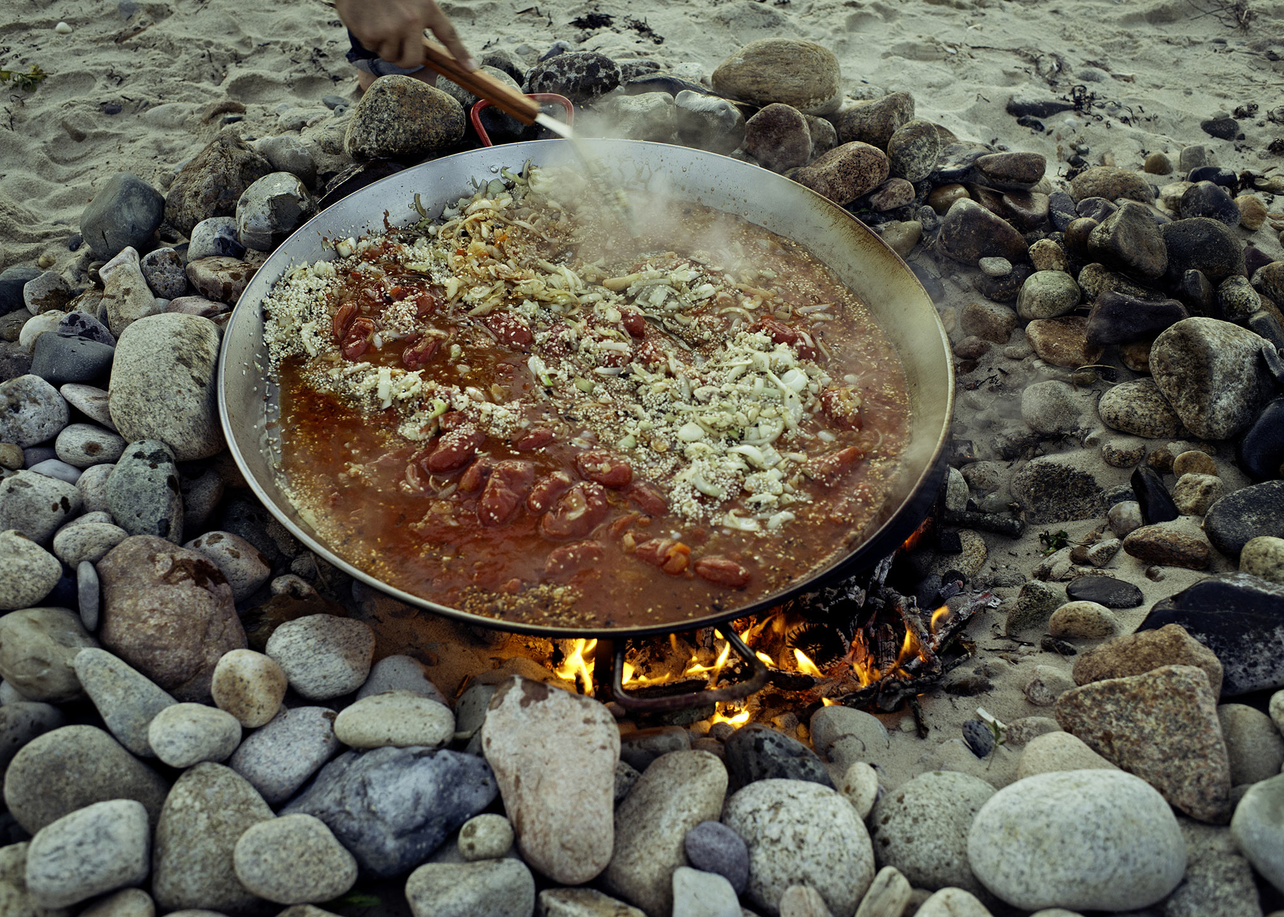
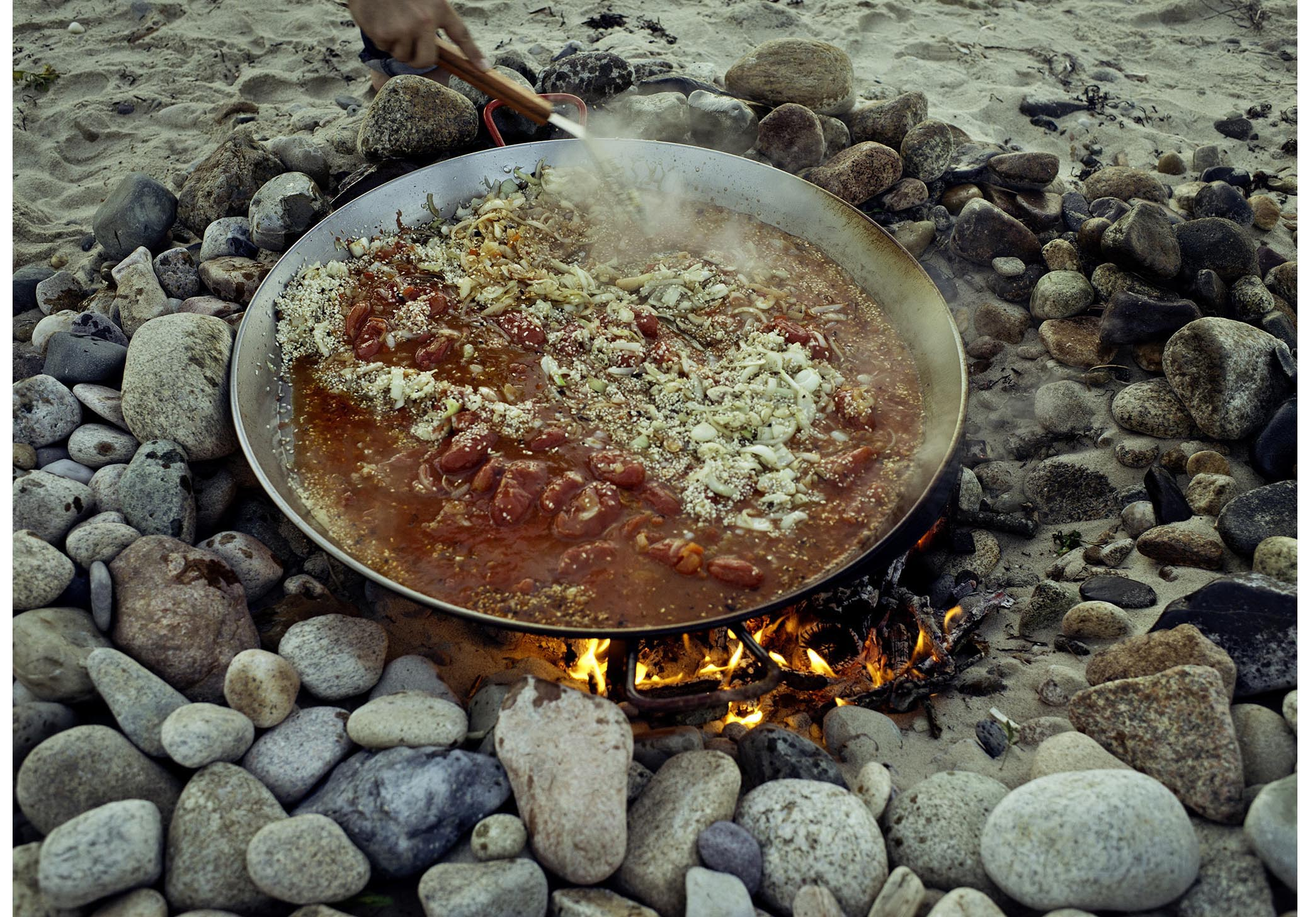
fixes and tweaks

diff --git a/place/fire2015/index.html b/place/fire2015/index.html
@@ -113,7 +113,7 @@
                   <source srcset="images/02-tiny-atlas-quarterly-fire-place-emily-nathan-L.jpg" media="(min-width: 960px)">
                   <source srcset="images/02-tiny-atlas-quarterly-fire-place-emily-nathan-M.jpg" media="(min-width: 768px)">
                   <!--[if IE 9]></video><![endif]-->
-                  <img srcset="images/03-tiny-atlas-quarterly-fire-place-emily-nathan-S.jpg" alt="Tiny Atlas Quarterly, Place">
+                  <img srcset="images/02-tiny-atlas-quarterly-fire-place-emily-nathan-S.jpg" alt="Tiny Atlas Quarterly, Place">
                 </picture>
                 <!-- IMAGE END -->
 
@@ -150,7 +150,7 @@
                          <h2>Palm Springs<br />Mid-century Oasis</h2>
                           <!-- INTRO -->
                          <h3><i>Design is all about emotional connection. I want people to be moved by the experience of being in a space I have designed.</i> — Steve Hermann</h3>
-                         <h3>An hour by air from San Francisco is PSP (the Palm Springs International Airport), a petit but high flying, white-tented welcome to an international mid-century design capital. And after a relaxed ten-minute desert ride, you arrive at <a href="http://www.lhw.com/property.aspx?pid=AF497ABE-C07A-42C9-9D76-8C11852629E6&ext=TNYALS15&utm_medium=link&utm_source=tinyals&utm_campaign=2015timyals&utm_content=tnyalshtl" target="_blank" style="background-color:#a2bde7">L’Horizon Resort and Spa</a> and enter the property’s intimate scale. As the newest member of a collection of over 400 international hotels, called <a href="http://www.lhw.com">The Leading Hotels of the World</a>, L’Horizon gives its guests the distinct feeling that they are staying someplace very rooted in place and with all the visual and material luxuries of fine art and beautiful design. </h3>
+                         <h3>An hour by air from San Francisco is PSP (the Palm Springs International Airport), a petit but high flying, white-tented welcome to an international mid-century design capital. And after a relaxed ten-minute desert ride, you arrive at <a href="http://www.lhw.com/property.aspx?pid=AF497ABE-C07A-42C9-9D76-8C11852629E6&ext=TNYALS15&utm_medium=link&utm_source=tinyals&utm_campaign=2015timyals&utm_content=tnyalshtl" target="_blank" style="background-color:#a2bde7">L’Horizon Resort and Spa</a> and enter the property’s intimate scale. As the newest member of a collection of over 400 international hotels, called <a href="http://www.lhw.com" target="_blank">The Leading Hotels of the World</a>, L’Horizon gives its guests the distinct feeling that they are staying someplace very rooted in place and with all the visual and material luxuries of fine art and beautiful design. </h3>
                          <h3>Each guest’s bungalow has a personalized etched brass doorplate. The materials are sleek and warm with hardwood, brass, and stone complimenting each other throughout. The details are a delight. Smooth turning brass cylinder knobs slowly raise the intensity of bespoke bare-bulb filaments. The San Jacinto Mountains rise above the ocotillo and saguaros just outside the indoor-outdoor showers made of floor to ceiling glass.</h3>
                          <h3>The cool pool—a flash of blue—lies leisurely amid fire pits and low stone fountains. The dark and romantic restaurant is tucked into a lush outdoor garden patio with unique lighting that makes a mini destination out of each table. Which makes dining on <a href="http://lhorizonpalmsprings.com/sopa-restaurant" target="_blank">Sopa’s</a> oysters with tiny fresh flowers and cava granita that much more extraordinary.</h3>
                          <h3>This is a space designed by someone focusing on each part of the whole as though it was their own home, curated with the passion and precision we would expect from an exceptional hotel. And that brings us to Steve&hellip;</h3>
@@ -199,8 +199,8 @@
                          <p><span class="pg-copy-em">TAQ:  Where do you stay when you’re in Palm Springs?</span></p>
                          <p>Steve:  I used to have a home out here but sold it when I opened the hotel. I wouldn't stay anywhere else but L’Horizon.</p>
                     </div><!-- end page content -->
-                    <h3><a href="http://www.lhw.com/property.aspx?pid=AF497ABE-C07A-42C9-9D76-8C11852629E6&ext=TNYALS15&utm_medium=link&utm_source=tinyals&utm_campaign=2015timyals&utm_content=tnyalshtl" target="_blank">L’Horizon</a> is a member of <a href="http://www.lhw.com">The Leading Hotels of the World</a>, a collection of uncommon luxury hotels for people who love to travel.  </h3>
-                    <h3>Pictured guest is jewelry designer Malia Mau of <a href="http://mgracejewelry.com">M Grace Jewelry</a>.</h3>
+                    <h3><a href="http://www.lhw.com/property.aspx?pid=AF497ABE-C07A-42C9-9D76-8C11852629E6&ext=TNYALS15&utm_medium=link&utm_source=tinyals&utm_campaign=2015timyals&utm_content=tnyalshtl" target="_blank" style="background-color:#a2bde7">L’Horizon</a> is a member of <a href="http://www.lhw.com" target="_blank">The Leading Hotels of the World</a>, a collection of uncommon luxury hotels for people who love to travel.  </h3>
+                    <h3>Pictured guest is jewelry designer Malia Mau of <a href="http://mgracejewelry.com" target="_blank">M Grace Jewelry</a>.</h3>
                  </div> <!-- end box div -->
                </div><!-- end wrapper div -->
             </div>
@@ -427,7 +427,7 @@
                   <div class="pg-box-nav"><a href="../../index.html"><img src="../../images/tiny-atlas-sm.jpg" alt="Tiny Atlas Quarterly"></a></div>
                   <div class="pg-box-content">
                           Glamis Sand Dunes, California<br />
-                          <a href="www.christianbrecheis.com" target="_blank">Christian Brecheis</a>
+                          <a href="http://www.christianbrecheis.com" target="_blank">Christian Brecheis</a>
                   </div>
                 </div> <!-- end box div -->
                </div><!-- end wrapper div -->
@@ -512,7 +512,7 @@
 
                          <!-- Q -->
                          <p><span class="pg-copy-em">TAQ:  What makes the Miracle Mile and Fairfax area special to you compared to other parts of L.A.?</span></p>
-                         <p>David:  Probably the fact that no one seems to know about it. It is near the <a href="http://www.thegrovela.com/dine.php">Grove</a> and <a href="http://www.farmersmarketla.com">the Farmer’s Market</a> and <a href="http://www.lacma.org">LACMA</a>, but other than these famous landmarks, the cultural life somehow remains pretty secret. It’s also so central: If you need to get to the beach or the valley, you’re never too far. </p>
+                         <p>David:  Probably the fact that no one seems to know about it. It is near the <a href="http://www.thegrovela.com/dine.php">Grove</a> and <a href="http://www.farmersmarketla.com" target="_blank">the Farmer’s Market</a> and <a href="http://www.lacma.org" target="_blank">LACMA</a>, but other than these famous landmarks, the cultural life somehow remains pretty secret. It’s also so central: If you need to get to the beach or the valley, you’re never too far. </p>
 
                          <!-- Q -->
                          <p><span class="pg-copy-em">TAQ:  What are your favorite things to do here?</span></p>
@@ -521,7 +521,7 @@
 
                          <!-- Q -->
                          <p><span class="pg-copy-em">TAQ:  You said the yep [young entertainment professionals] crowd was settling in the neighborhood. Do you think it has something to do with the proximity to Hollywood? Or did the entertainment scene spread to your district?</span></p>
-                         <p>David:  I think it’s been a long time since Hollywood was the center of the entertainment life in L.A. There is a tendency to think of theater as only being a big Broadway musical. But in the thirteen years I’ve been producing Mortified, I’ve come to see that L.A. has more small events and stage shows than people give it credit for. <a href="http://getmortified.com/live/">Mortified</a> is one of the longest running stage shows currently in Los Angeles and it’s only because the community and the city supports it. </p>
+                         <p>David:  I think it’s been a long time since Hollywood was the center of the entertainment life in L.A. There is a tendency to think of theater as only being a big Broadway musical. But in the thirteen years I’ve been producing Mortified, I’ve come to see that L.A. has more small events and stage shows than people give it credit for. <a href="http://getmortified.com/live/" target="_blank">Mortified</a> is one of the longest running stage shows currently in Los Angeles and it’s only because the community and the city supports it. </p>
                     </div><!-- end page content -->
                  </div> <!-- end box div -->
                </div><!-- end wrapper div -->
@@ -732,7 +732,7 @@
 
                          <p>And he’s right. It strikes me every time I drive east on Route 27 . . . the tended lawns and giant elms of East Hampton give way to windswept dunes of Napeague, and then the ragged, bare cliffs of Montauk. Amenities aside, Montauk, with it’s exposure to salt and wind, will always be raw. </span></p>
 
-                         <p>As year-round resident of the last town on Long Island, about a hundred miles out on the Atlantic Ocean, and creative director for <a href="http://thembh.com">The Montauk Beach House</a> (MBH), Walt Lindveld translates and refines Montauk. Walk past the breezy MBH front desk and you feel It immediately . . . when you see the little kids in the pool alongside smiling staff in high-cut denims. It is chic without pretense. There’s sun, shade, sleek lines, and plenty of soft places to land. You can see immediately what you’re getting into and you want to stay a while. And that’s what Walt Lindveld does well. He creates environments that make you want to stay. </p>
+                         <p>As year-round resident of the last town on Long Island, about a hundred miles out on the Atlantic Ocean, and creative director for <a href="http://thembh.com" target="_blank">The Montauk Beach House</a> (MBH), Walt Lindveld translates and refines Montauk. Walk past the breezy MBH front desk and you feel It immediately . . . when you see the little kids in the pool alongside smiling staff in high-cut denims. It is chic without pretense. There’s sun, shade, sleek lines, and plenty of soft places to land. You can see immediately what you’re getting into and you want to stay a while. And that’s what Walt Lindveld does well. He creates environments that make you want to stay. </p>
 
                          <p>At a Monday lunch on a cool, shady couch near the pool the vibe is relaxed and lovely, low music and seagulls overhead.</p>
 

diff --git a/portraits/fire2015/index.html b/portraits/fire2015/index.html
@@ -89,7 +89,7 @@
             <div class="pg-box-content">
                     Tess<br />
                     Chatham County, Georgia<br />
-                    <a href="http://www.gabrielaherman.com" target="_blank">Katherine Wolkoff</a>
+                    <a href="http://katherinewolkoff.com" target="_blank">Katherine Wolkoff</a>
             </div>
           </div> <!-- end box div -->
          </div><!-- end wrapper div -->
@@ -115,7 +115,7 @@
             <div class="pg-box-content">
                     Abraham<br />
                     Monrovia, Liberia<br />
-                    <a href="www.matthewreamer.com" target="_blank">Matthew Reamer</a>
+                    <a href="http://www.matthewreamer.com" target="_blank">Matthew Reamer</a>
             </div>
           </div> <!-- end box div -->
          </div><!-- end wrapper div -->
@@ -141,7 +141,7 @@
             <div class="pg-box-content">
                     Girl<br />
                     Asbury Park, New Jersey<br />
-                    <a href="www.ryanstruck.com" target="_blank">Ryan Struck</a>
+                    <a href="http://www.ryanstruck.com" target="_blank">Ryan Struck</a>
             </div>
           </div> <!-- end box div -->
          </div><!-- end wrapper div -->
@@ -167,7 +167,7 @@
             <div class="pg-box-content">
                     Grant<br />
                     Michigan<br />
-                    <a href="www.terriloewenthal.com " target="_blank">Terri Loewenthal</a>
+                    <a href="http://www.terriloewenthal.com " target="_blank">Terri Loewenthal</a>
             </div>
           </div> <!-- end box div -->
          </div><!-- end wrapper div -->
@@ -193,7 +193,7 @@
             <div class="pg-box-content">
                     Miatta and Agnes<br />
                     Monrovia, Liberia<br />
-                    <a href="www.matthewreamer.com" target="_blank">Matthew Reamer</a>
+                    <a href="http://www.matthewreamer.com" target="_blank">Matthew Reamer</a>
             </div>
           </div> <!-- end box div -->
          </div><!-- end wrapper div -->
@@ -219,7 +219,7 @@
             <div class="pg-box-content">
                     Vera<br />
                     Perm, Russia<br />
-                    <a href="www.rorydoylephoto.com" target="_blank">Rory Doyle</a>
+                    <a href="http://www.rorydoylephoto.com" target="_blank">Rory Doyle</a>
             </div>
           </div> <!-- end box div -->
          </div><!-- end wrapper div -->
@@ -245,7 +245,7 @@
             <div class="pg-box-content">
                     Unknown<br />
                     Tokyo, Japan<br />
-                    <a href="www.sawakofujii.com" target="_blank">Chikage &amp; Sowako</a>
+                    <a href="http://www.sawakofujii.com" target="_blank">Chikage &amp; Sowako</a>
             </div>
           </div> <!-- end box div -->
          </div><!-- end wrapper div -->
@@ -271,7 +271,7 @@
             <div class="pg-box-content">
                     Woman<br />
                     Playa Colorados, Nicaragua<br />
-                    <a href="www.nickiecutrona.com" target="_blank">Nickie Cutrona</a>
+                    <a href="http://www.nickiecutrona.com" target="_blank">Nickie Cutrona</a>
             </div>
           </div> <!-- end box div -->
          </div><!-- end wrapper div -->
@@ -297,7 +297,7 @@
             <div class="pg-box-content">
                     Josh Stone<br />
                     Cooper Island, BVI's<br />
-                    <a href="www.nickiecutrona.com" target="_blank">Nickie Cutrona</a>
+                    <a href="http://www.nickiecutrona.com" target="_blank">Nickie Cutrona</a>
             </div>
           </div> <!-- end box div -->
          </div><!-- end wrapper div -->
@@ -323,7 +323,7 @@
             <div class="pg-box-content">
                     Liesl<br />
                     Pacific Palisades, California<br />
-                    <a href="www.brendanpattengale.com" target="_blank">Brendan Pattengale</a>
+                    <a href="http://www.brendanpattengale.com" target="_blank">Brendan Pattengale</a>
             </div>
           </div> <!-- end box div -->
          </div><!-- end wrapper div -->
@@ -349,7 +349,7 @@
             <div class="pg-box-content">
                     Unknown<br />
                     Austin, Texas<br />
-                    <a href="www.matthewjohnsonphoto.com" target="_blank">Matthew Johnson</a>
+                    <a href="http://www.matthewjohnsonphoto.com" target="_blank">Matthew Johnson</a>
             </div>
           </div> <!-- end box div -->
          </div><!-- end wrapper div -->
@@ -375,7 +375,7 @@
             <div class="pg-box-content">
                     Christopher Meyerhoff<br />
                     Leverett, Massachusetts<br />
-                    <a href="www.jessicasample.com" target="_blank">Jessica Sample</a>
+                    <a href="http://www.jessicasample.com" target="_blank">Jessica Sample</a>
             </div>
           </div> <!-- end box div -->
          </div><!-- end wrapper div -->
@@ -401,7 +401,7 @@
             <div class="pg-box-content">
                     Unknown<br />
                     Beacon, New York<br />
-                    <a href="www.meredithheuer.com" target="_blank">Meredith Heuer</a>
+                    <a href="http://www.meredithheuer.com" target="_blank">Meredith Heuer</a>
             </div>
           </div> <!-- end box div -->
          </div><!-- end wrapper div -->
@@ -427,7 +427,7 @@
             <div class="pg-box-content">
                     Lindy Booth<br />
                     London, UK<br />
-                    <a href="www.vanessaberberian.com" target="_blank">Vanessa Berberian</a>
+                    <a href="http://www.vanessaberberian.com" target="_blank">Vanessa Berberian</a>
             </div>
           </div> <!-- end box div -->
          </div><!-- end wrapper div -->
@@ -455,7 +455,7 @@
                     <!-- INTRO -->
                    <h3>photo Lou Mora <br />
                    interview by Andi Teggart from STAND </h3>
-                   <h3>Last month, Tiny Atlas Quarterly launched its first awareness campaign for the nonprofit organization <a href="http://www.thextramile.org">The Extra Mile</a> (TEM). We felt TAQ’S community of travelers would be the perfect match to support an organization that collects frequent flyer miles for people who need to travel to be with terminally ill loved ones. We linked up with TEM on <a href="https://itunes.apple.com/us/app/apple-store/id960059100?mt=8" target="_blank">STAND</a>, an app that simplifies the process of connecting with inspiring people who put compassion into action.</h3>
+                   <h3>Last month, Tiny Atlas Quarterly launched its first awareness campaign for the nonprofit organization <a href="http://www.thextramile.org" target="_blank">The Extra Mile</a> (TEM). We felt TAQ’S community of travelers would be the perfect match to support an organization that collects frequent flyer miles for people who need to travel to be with terminally ill loved ones. We linked up with TEM on <a href="https://itunes.apple.com/us/app/apple-store/id960059100?mt=8" target="_blank">STAND</a>, an app that simplifies the process of connecting with inspiring people who put compassion into action.</h3>
                    <h3>Matt Dimmer created The Extra Mile after his dad passed away. We know Matt through Lou Mora, our long-time collaborator, who we asked to photograph Matt for this story. Andi Teggart from STAND, the app that brought TAQ and TEM together, interviews Matt about the organization’s values and the challenges involved in starting a nonprofit company. </h3>
                    <!-- page content -->
                    <div id="pg-interview-content">
@@ -545,7 +545,7 @@
             <div class="pg-box-content">
                     Delilah Parillo<br />
                     Little Big Sur, California<br />
-                    <a href="www.brandonharman.com" target="_blank">Brandon Harman</a>
+                    <a href="http://www.brandonharman.com" target="_blank">Brandon Harman</a>
             </div>
           </div> <!-- end box div -->
          </div><!-- end wrapper div -->
@@ -571,7 +571,7 @@
             <div class="pg-box-content">
                     Lily and Arthur<br />
                     Shropshire, England<br />
-                    <a href="www.tinahillier.com" target="_blank">Tina Hillier</a>
+                    <a href="http://www.tinahillier.com" target="_blank">Tina Hillier</a>
             </div>
           </div> <!-- end box div -->
          </div><!-- end wrapper div -->
@@ -597,7 +597,7 @@
             <div class="pg-box-content">
                     India Reinartz and Rebekah Hulseman<br />
                     Playa Gigante, Nicaragua<br />
-                    <a href="www.nickiecutrona.com" target="_blank">Nickie Cutrona</a>
+                    <a href="http://www.nickiecutrona.com" target="_blank">Nickie Cutrona</a>
             </div>
           </div> <!-- end box div -->
          </div><!-- end wrapper div -->

diff --git a/beauty/oahu/index.html b/beauty/oahu/index.html
@@ -310,7 +310,7 @@
                     <span class="pg-contributor">Eat & Drink</span>
                     <br /><a href="http://www.thelocalhawaii.com" target="_blank">The Local Hawaii</a>
                     <br /><a href="http://www.townkaimuki.com/menu/" target="_blank">Town Kaimuki</a>
-                    <br /><a href="https://m.facebook.com/pages/Okata-Bento/111741405531454" target="_blank">Okata Bento</a>
+                    <br /><a href="https://facebook.com/pages/Okata-Bento/111741405531454" target="_blank">Okata Bento</a>
                     <br /><a href="http://thepigandthelady.com" target="_blank">The Pig and the Lady</a>
 
                     </div>
@@ -353,16 +353,16 @@
                     <!-- | -->
                     <div class="pg-credits-box">
                     <!-- <span class="pg-contributor">Wardrobe</span> -->
-                    <br /><a href="#" target="_blank">Cuffs By Chari</a>
-                    <br /><a href="#" target="_blank">Neon Reef Shark Necklaces By Chari Neon Reef Shark</a>
-                    <br /><a href="#" target="_blank">Swimsuit by S.TORY standards Sadira</a>
-                    <br /><a href="#" target="_blank">Top Chi in White Ava Sky Hawaii </a>
+                    <br /><a href="http://bychari.com/collections/the-collection" target="_blank">Cuffs By Chari</a>
+                    <br /><a href="http://bychari.com/collections/the-collection" target="_blank">Neon Reef Shark necklaces By Chari</a>
+                    <br /><a href="http://www.storystandards.com" target="_blank">Sadira swimsuit by S.TORY standards </a>
+                    <br /><a href="http://www.avaskyhawaii.com" target="_blank">Top Chi in White Ava Sky Hawaii</a>
                     </div>
 
                     <!-- | -->
                     <div class="pg-credits-box">
                     <span class="pg-contributor">Beauty products</span>
-                    <br /><a href="www.letraveleur.com" target="_blank">Le Traveleur</a>
+                    <br /><a href="http://www.letraveleur.com" target="_blank">Le Traveleur</a>
                     </div>
 
                     <!-- | -->

diff --git a/ptreyes/index.html b/ptreyes/index.html
@@ -149,7 +149,7 @@
                             <!-- CONTENT -->
                             <!-- INTERVIW -->
                             <div id="pg-interview">
-                            <h2>Seeding a Forest with Fire</h2>
+                            <h1>Seeding a Forest <br />with Fire</h1>
                             <h2>By Charles Post</h2>
                             <p>They say you could see the walls of fire from San Francisco. Four days of flames and smoke billowed from that torched sea of coastal prairie, scrub and forests dressed in autumn hues. The Mount Vision Fire of 1995 burned hot like a desiccated tinderbox, one brimming with sixty-eight years of fuel.</p>
                             <br />
@@ -413,7 +413,7 @@
                     <!-- | -->
                     <div class="pg-credits-box">
                     <span class="pg-contributor">Hair &amp; Makeup</span>
-                    <br /><a href="www.triciaturner.com" target="_blank">Trica Turner</a>
+                    <br /><a href="http://www.triciaturner.com" target="_blank">Trica Turner</a>
                     </div>
 
                     <!-- | -->
@@ -508,7 +508,8 @@
                        <!-- END IMAGE -->
                        <!-- LABELS -->
                        	<div class="pg-wardrobe-label">
-                        	<a href="http://www.aceandjig.com" target="_blank">red knit jumper, Ace and Jig</a>
+                        	on Michelle
+                        	<br /><a href="http://www.aceandjig.com" target="_blank">red knit jumper, Ace and Jig</a>
                             <br /><a href="https://www.madewell.com/index.jsp" target="_blank">black straw hat, Madewell</a>
                         </div>
 						<!-- END LABELS -->

diff --git a/iceland/index.html b/iceland/index.html
@@ -119,7 +119,8 @@
                          <!-- CONTENT -->
                          <!-- INTERVIW -->
                          <div id="pg-interview">
-                        <h2>Photographer; Iceland with Emily Shur</h2>
+                        <h1 style="margin-bottom:0">Photographer</h1>
+                        <h2 style="margin-top:0">Iceland with Emily Shur</h2>
                         <h2>by Cory Jacobs</h2>
                          <p>Robert Adams, really one of the best landscape photographers ever, famously said, “No place is boring, if you’ve had a good night’s sleep and have a pocket full of unexposed film.” It looks like Emily Shur feels the same way. She principally takes pictures of celebrities under the watchful eyes of publicists and large crews at home in Los Angeles. When she is on the road, the landscape is her subject, her fine-art practice the focus. Whether in Japan or New Zealand or New Jersey, Shur makes excellent pictures of places. They have her eye in common: a straight ahead view—not too dissimilar to Adams in fact—and often a hint of humor emerging from an unusual scale shift or a surprising man-made intervention.</p>
                          <br />

diff --git a/myanmar/index.html b/myanmar/index.html
@@ -145,7 +145,7 @@
                          <div class="pg-box-content">
                             <!-- CONTENT -->
                             <div id="pg-interview">
-                              <h2>Touring the Temples</h2>
+                              <h1>Touring the Temples</h1>
                               <h2>by Tyson Evans</h2>
 
                               <p>Imagine the thousands of ancient temples scattered across the flat and unpopulated plains along the Irrawaddy River at sunrise. Now imagine the contemporary moment of meta-tourism—hundreds of other tourists, floating along in their own balloons, peppering the landscape and adding to the surreal beauty of the place.</p>

diff --git a/joshuatree/index.html b/joshuatree/index.html
@@ -466,7 +466,7 @@
                     <div class="pg-credits-box">
                     <span class="pg-contributor">DO</span>
                     <br /><a href="https://www.facebook.com/BoulderGardensCA" target="_blank">Garth's Boulder Gardens</a>
-                    <br /><a href="http://www.nps.gov/jotr/index.html" target="_blank">Joshua Tree National Park</a>
+                    <br /><a href="http://www.nps.gov/jotr/index.htm" target="_blank">Joshua Tree National Park</a>
                     </div>
 
                   </div><!-- end page content -->
